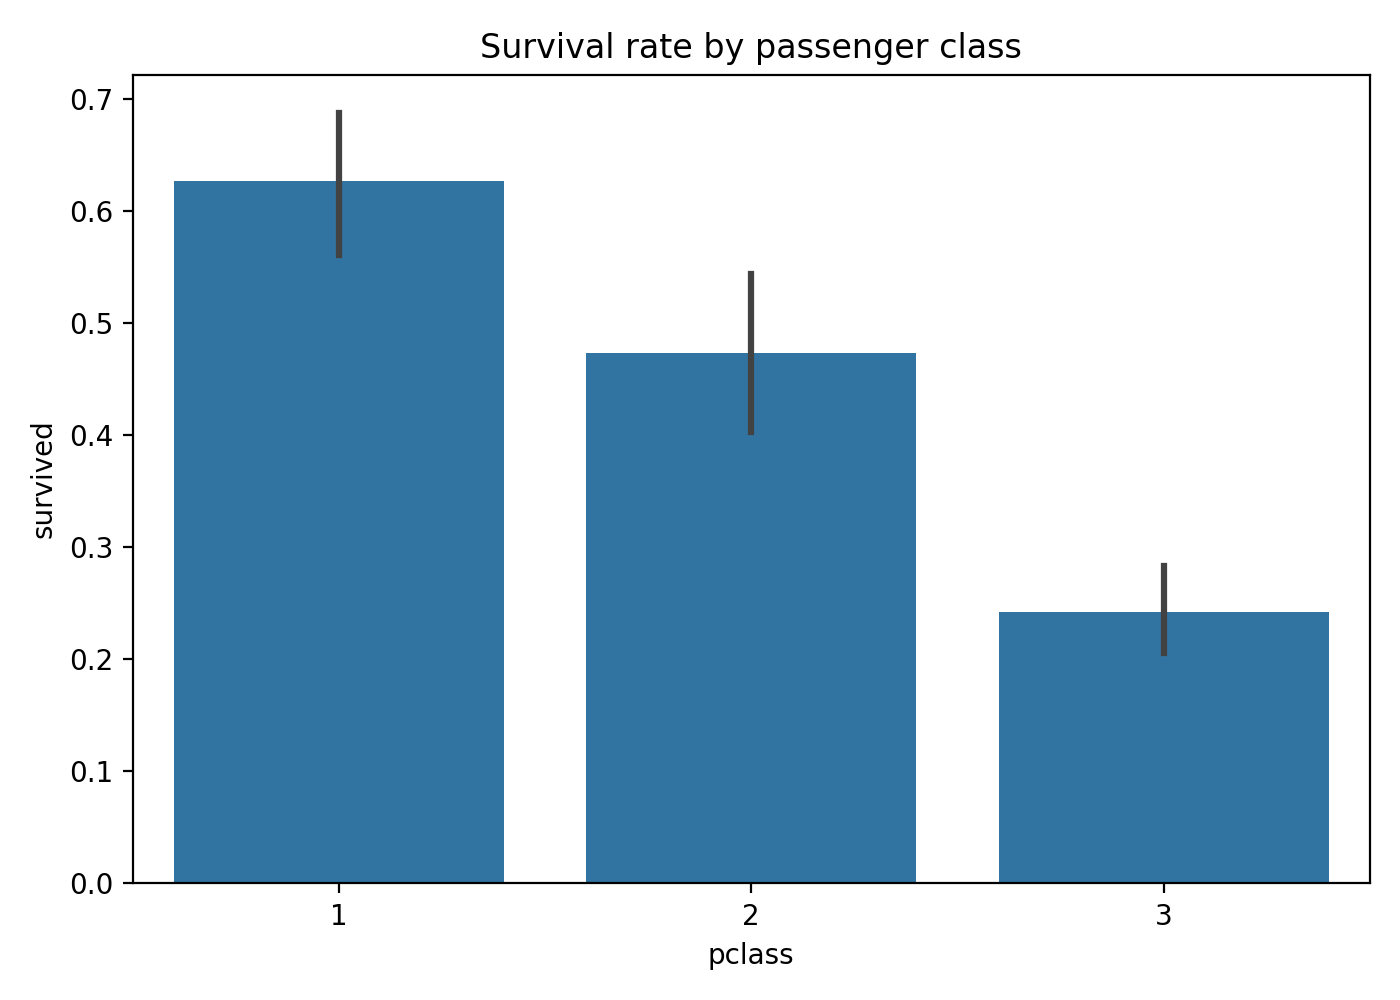
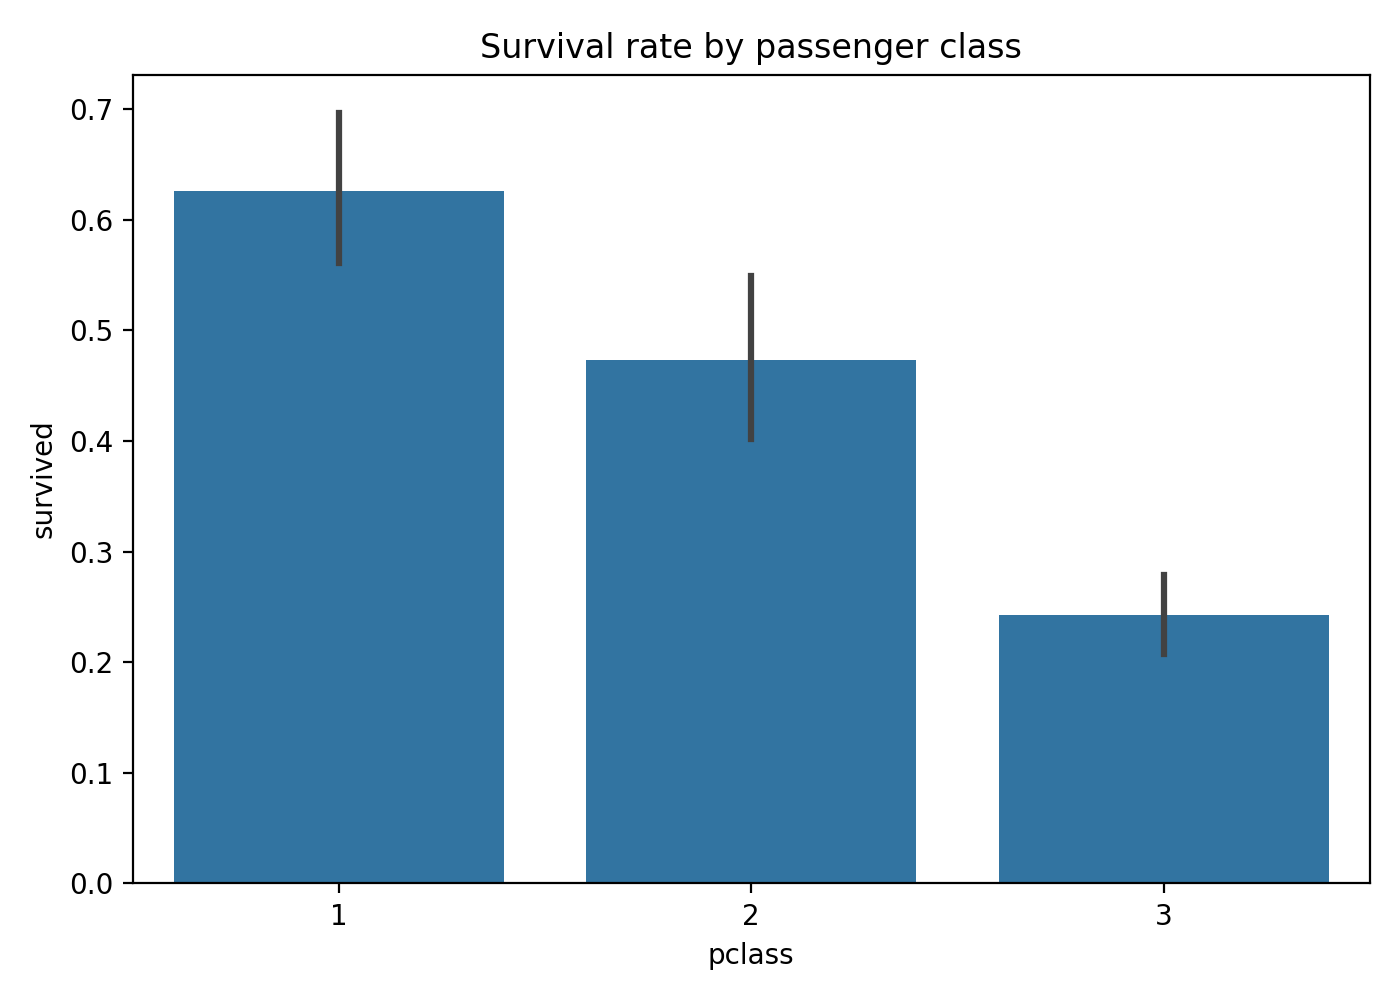
Keep only standalone EDA charts

diff --git a/analytics/01_eda.py b/analytics/01_eda.py
@@ -154,20 +154,6 @@ plt.tight_layout()
 plt.savefig(BASE_DIR / "fare_age_survival.png", dpi=200)
 plt.close()
 
-# Keep the combined image for quick viewing as well.
-fig, axes = plt.subplots(2, 2, figsize=(14, 10))
-sns.barplot(data=df_clean, x="sex", y="survived", estimator="mean", ax=axes[0, 0])
-axes[0, 0].set_title("Survival rate by sex")
-sns.barplot(data=df_clean, x="pclass", y="survived", estimator="mean", ax=axes[0, 1])
-axes[0, 1].set_title("Survival rate by passenger class")
-sns.boxplot(data=df_clean, x="sex", y="age", ax=axes[1, 0])
-axes[1, 0].set_title("Age by sex")
-sns.scatterplot(data=df_clean, x="fare", y="age", hue="survived", alpha=0.7, ax=axes[1, 1])
-axes[1, 1].set_title("Fare versus age by survival")
-plt.tight_layout()
-plt.savefig(CHART_DIR / "multivariate_story.png", dpi=200)
-plt.close()
-
 # Save the fare-age relationship as its own scatterplot.
 plt.figure(figsize=(8, 6))
 sns.scatterplot(data=df_clean, x="fare", y="age", hue="survived", alpha=0.7)
